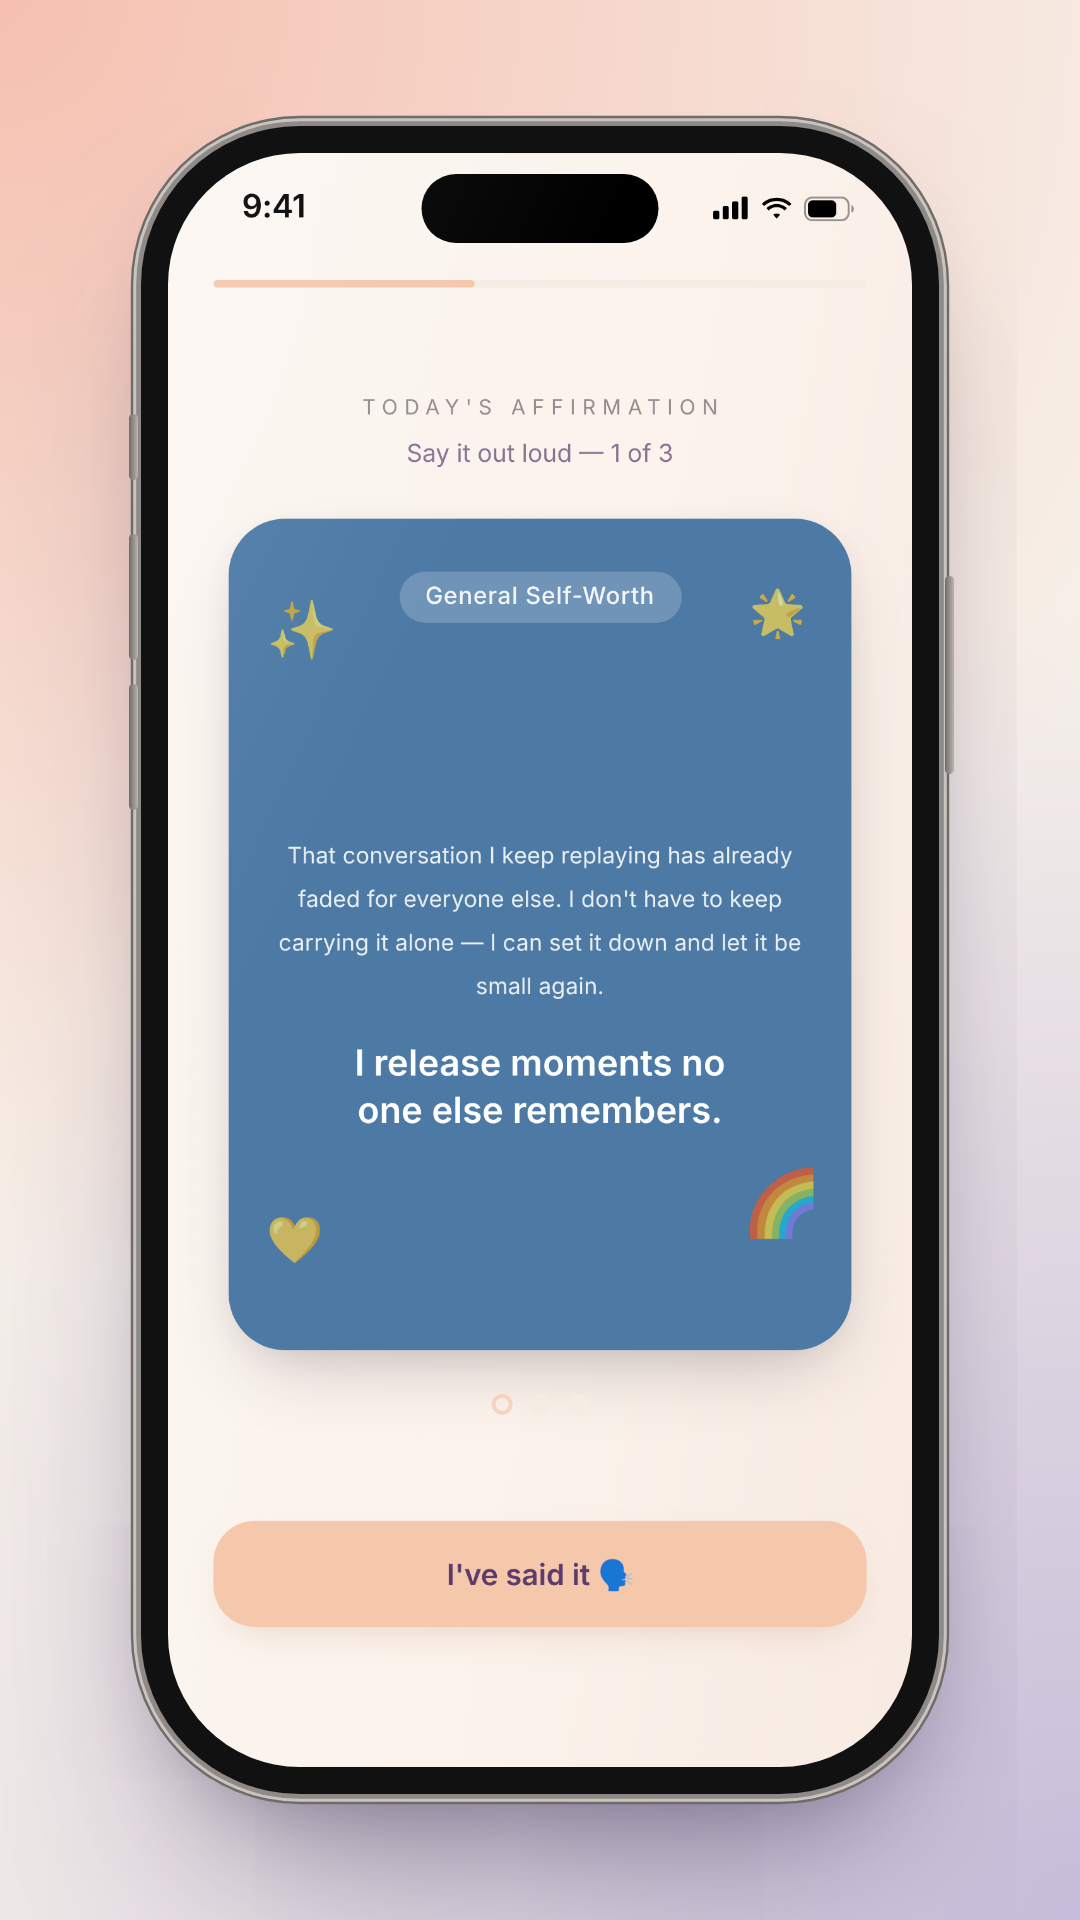
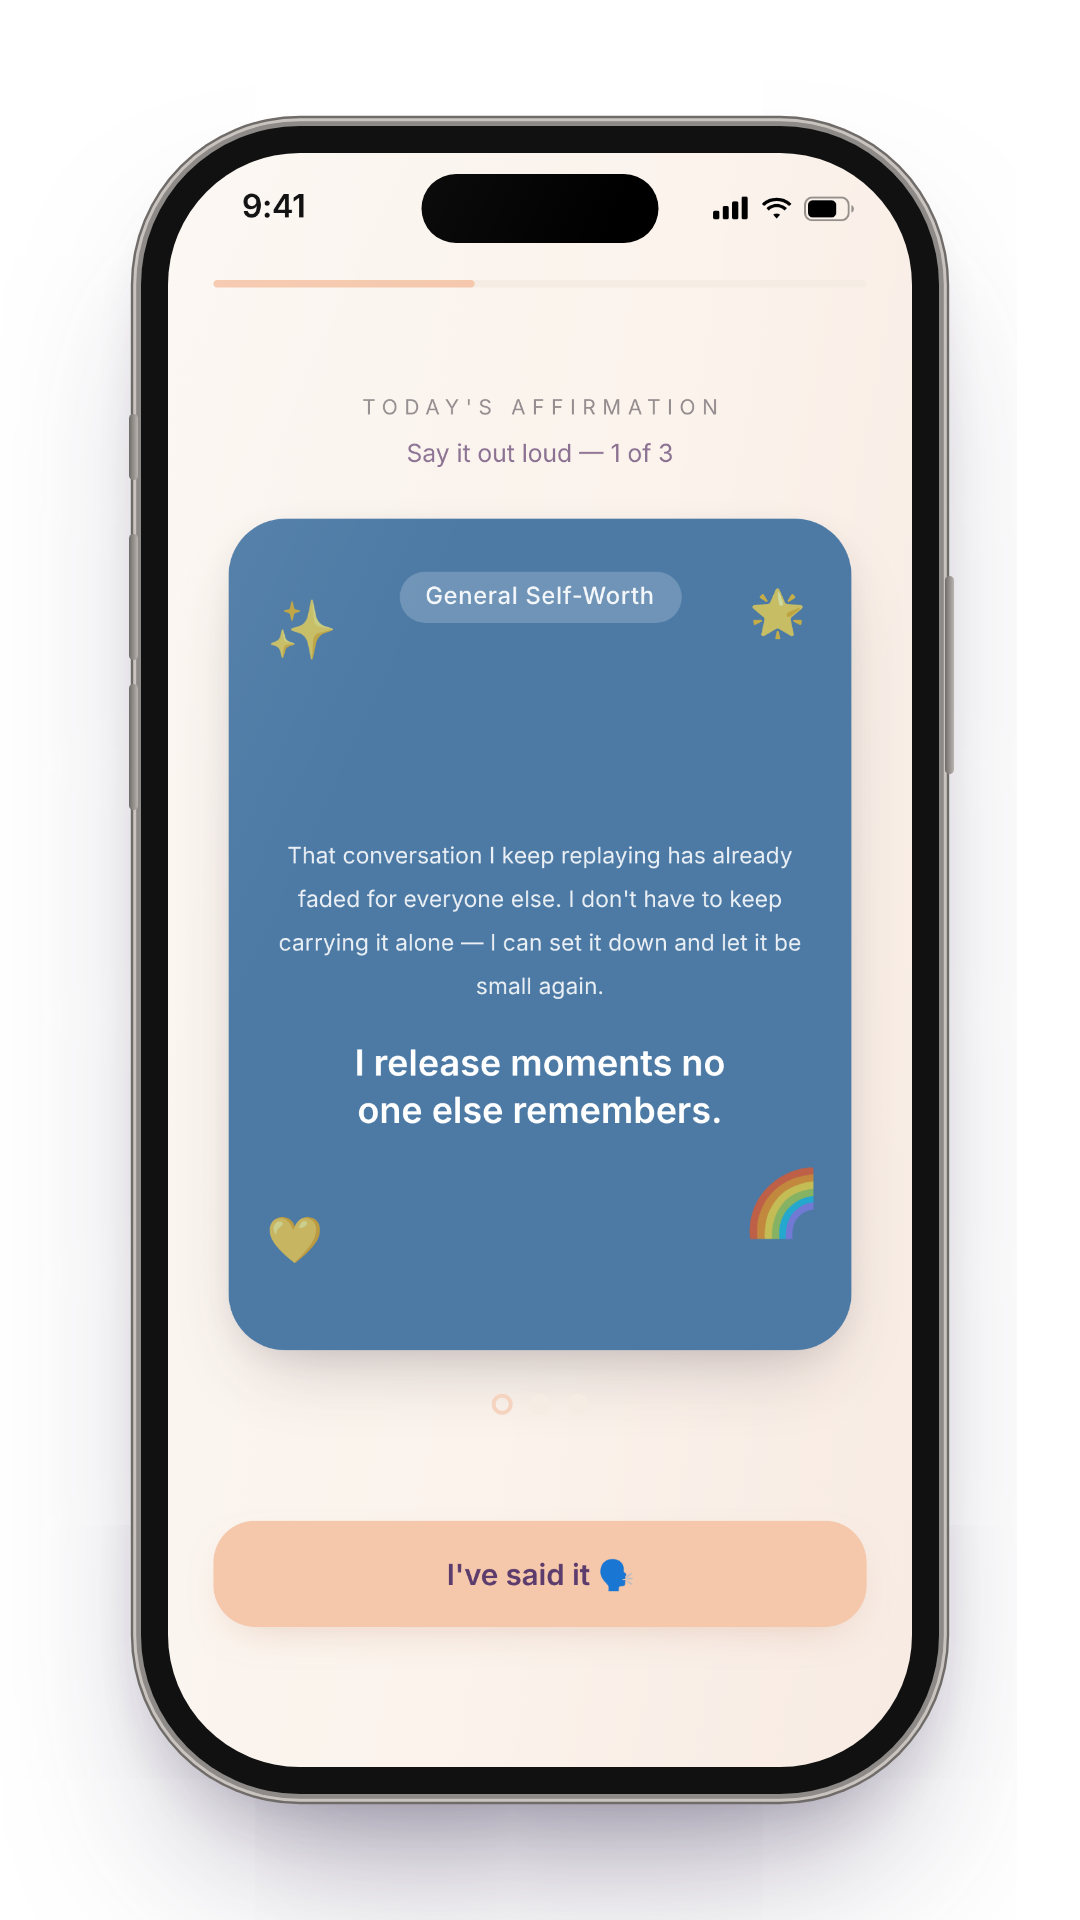
Velora: mockupen har transparent bakgrund (--bg ger Veloras bakgrund)
Claude-Session: https://claude.ai/code/session_011WD5VQRwCwQ7kKUv3hqvuE

diff --git a/velora-carousel/README.md b/velora-carousel/README.md
@@ -87,7 +87,8 @@ iPhone-skärmdump (1179×2556). Använd den i reels i stället för en skärmins
 npm run screen dag-01                                   # screens/dag-01.json
 npm run screen all                                      # alla i screens/
 npm run screen -- --text "My no is a full sentence." --body "Valfri förklaring." --out min-skarm
-npm run mockup dag-01 dag-02 dag-03                     # skärmen i en iPhone, 1080×1920 för reels
+npm run mockup dag-01 dag-02 dag-03                     # skärmen i en iPhone, 1080×1920, transparent bakgrund
+npm run mockup -- dag-01 --bg                           # samma, med Veloras bakgrund
 ```
 
 Mockupen hamnar i `output/screens/<namn>-mockup.png`. Den går också att få genom `"mockup": true` i JSON:en.
